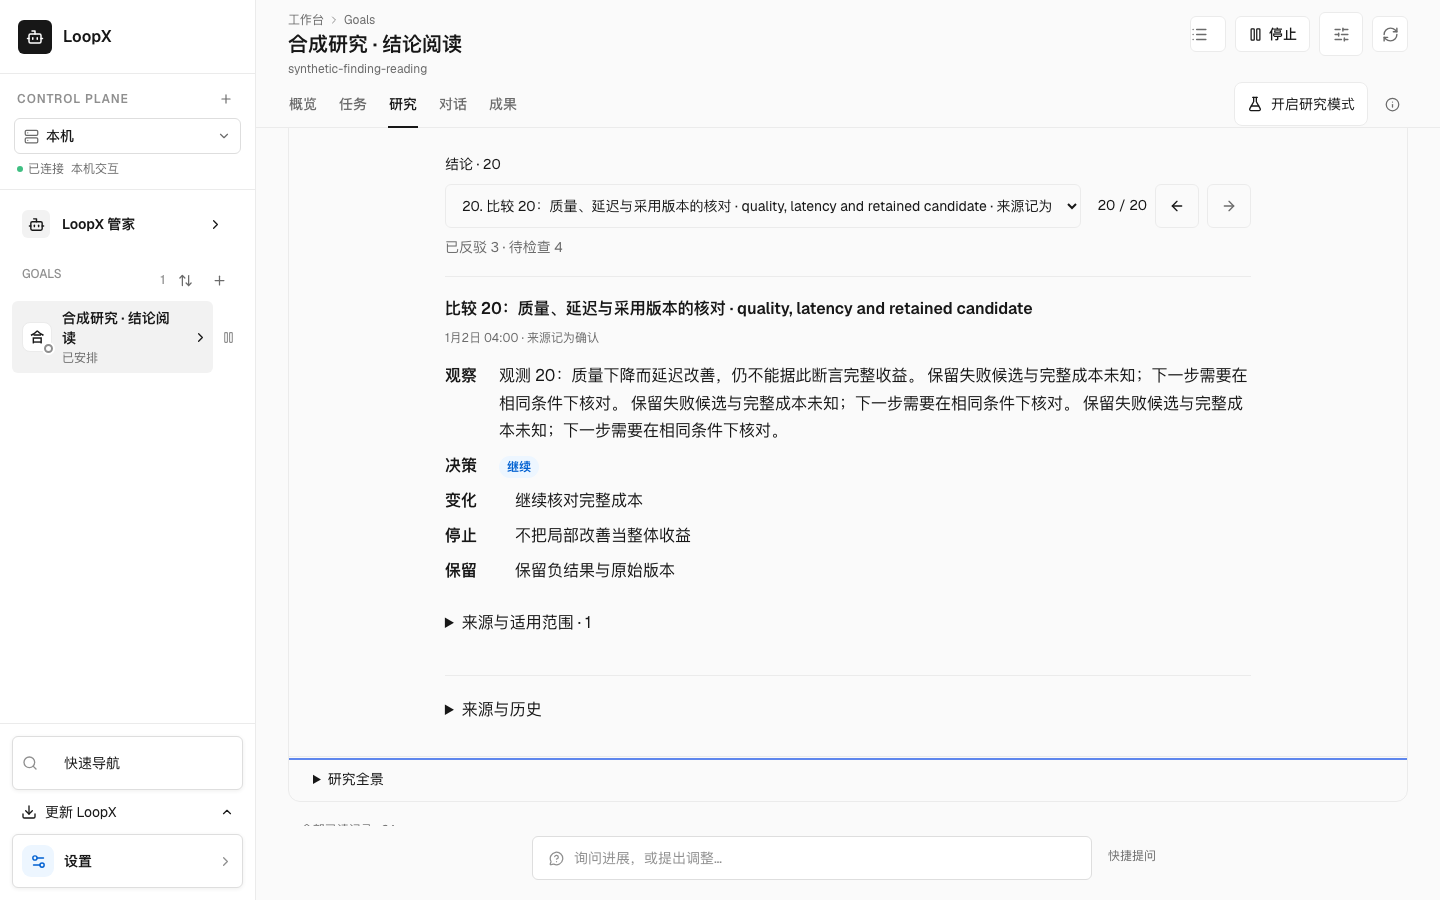
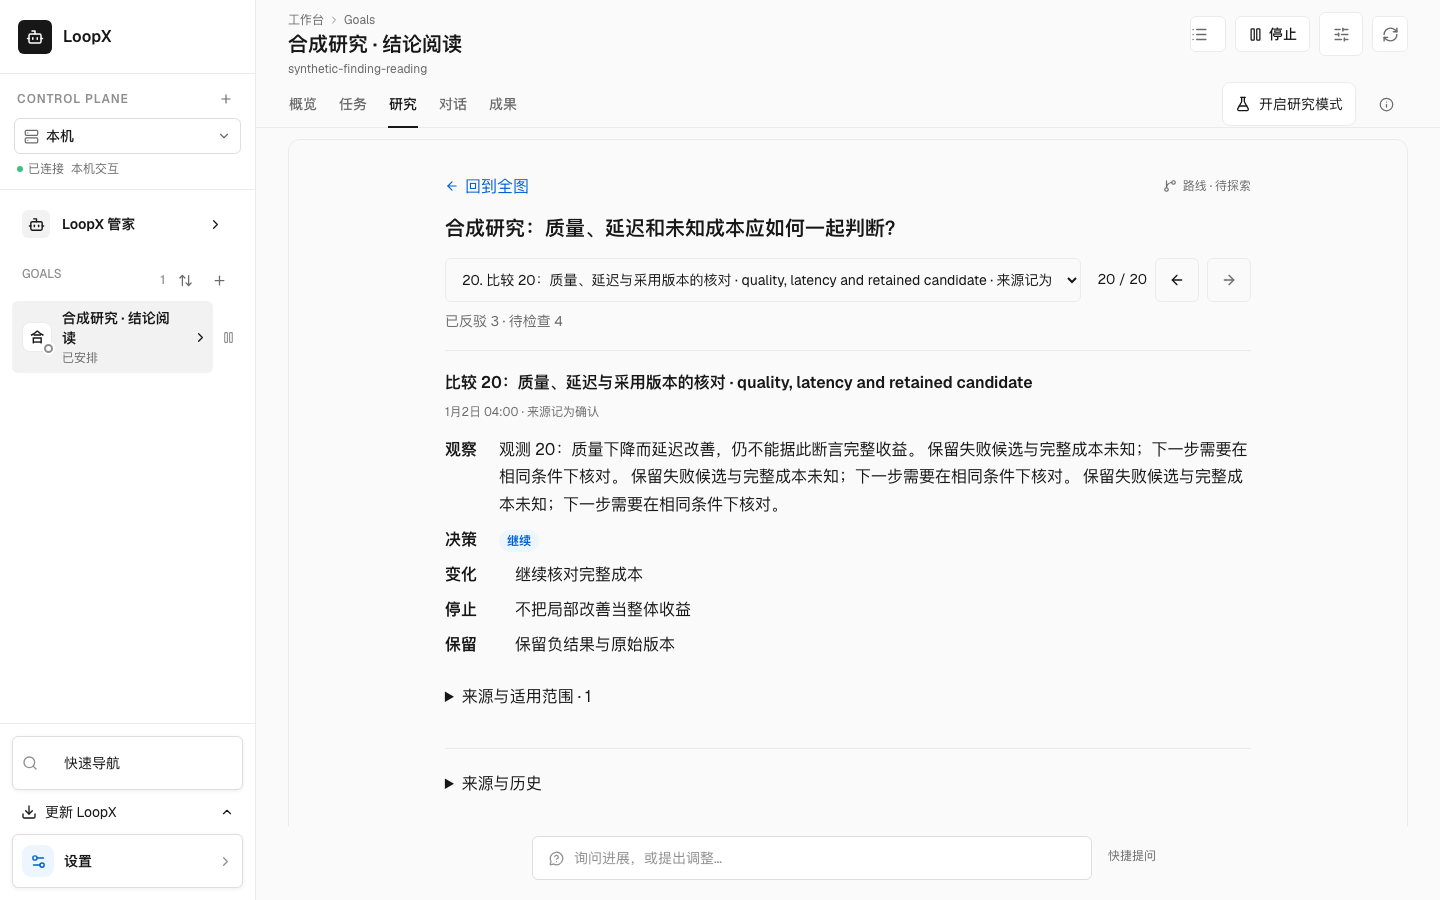
fix(research): retain analysis scope beside focused reading actions

diff --git a/apps/presentation/dashboard/src/features/personal-workspace/goal-research-history.tsx b/apps/presentation/dashboard/src/features/personal-workspace/goal-research-history.tsx
@@ -311,7 +311,9 @@ export function GoalResearchHistory({goalId, active, zh, refreshRevision = 0, re
           : `${read.events.length} / ${read.total} ${copy.records}${read.complete ? "" : ` · ${copy.partial}`}`}</p></div>
       <div className="research-history-controls">
         {!readingSelection ? <div className="research-lens" role="group" aria-label={zh ? "视图" : "View"}>{(["timeline", "graph"] as const).map(item => <button key={item} type="button" aria-pressed={lens === item} onClick={() => chooseLens(item)}>{item === "timeline" ? (zh ? "时间线" : "Timeline") : (zh ? "关系图" : "Graph")}</button>)}</div> : null}
-        <ResearchAnalysisButton analysis={analysis}/>
+        <div className="research-analysis-scoped-action"><ResearchAnalysisButton analysis={analysis}/>
+          {readingSelection && analysis.pack ? <span className="research-analysis-scope">{zh ? "分析范围" : "Analysis scope"} · {analysis.pack.title}</span> : null}
+        </div>
         <button type="button" aria-label={copy.refresh} disabled={busy} onClick={() => setRevision(n => n + 1)}><RefreshCw size={15} aria-hidden/></button>
       </div></header>
     {error || history.error ? <p role="alert" className="research-history-error">{copy.failure} <small>{error || history.error}</small></p> : null}
@@ -325,14 +327,13 @@ export function GoalResearchHistory({goalId, active, zh, refreshRevision = 0, re
 
       {selected ? <div className="research-history-detail" ref={detail} role="region" aria-label={selected.latest.title} tabIndex={-1} onKeyDown={event => {if (event.key === "Escape") {event.stopPropagation(); closeReader();}}}>
         <div className="research-reader-content">
-        <button type="button" className="research-reader-back" onClick={closeReader}><ArrowLeft size={14} aria-hidden/>{readerParent.current ? (zh ? "返回问题列表" : "Back to questions") : copy.all}</button>
-        <p className="research-detail-kind"><GitBranch size={14} aria-hidden/>{kindLabel(selected.latest.node_kind)} · {stateLabel(selected.latest.status)}</p>
+        <div className="research-reader-location"><button type="button" className="research-reader-back" onClick={closeReader}><ArrowLeft size={14} aria-hidden/>{readerParent.current ? (zh ? "返回问题列表" : "Back to questions") : copy.all}</button>
+        <p className="research-detail-kind"><GitBranch size={14} aria-hidden/>{kindLabel(selected.latest.node_kind)} · {stateLabel(selected.latest.status)}</p></div>
         <h3>{selected.latest.title}</h3>
         {selected.latest.blocked_reason ? <p className="research-history-error">{selected.latest.blocked_reason}</p> : null}
         {selected.findings.length ? <>
           {selected.findings.length > 1 ? <nav className="research-finding-navigation" aria-label={zh ? "问题结论" : "Question findings"}>
-            <label><span>{zh ? "结论" : "Findings"} · {selected.findings.length}</span>
-              <select aria-label={zh ? "选择问题结论" : "Choose a question finding"} value={selectedFinding?.result_id ?? ""}
+            <label><select aria-label={zh ? "选择问题结论" : "Choose a question finding"} value={selectedFinding?.result_id ?? ""}
                 onChange={event => select({...selection, finding: event.target.value}, false)}>
                 {!selectedFinding ? <option value="" disabled>{zh ? "所选结论未找到" : "Selected finding not found"}</option> : null}
                 {selected.findings.map((finding, index) => <option key={finding.result_id} value={finding.result_id}>

diff --git a/apps/presentation/dashboard/src/features/personal-workspace/goal-research-history.css b/apps/presentation/dashboard/src/features/personal-workspace/goal-research-history.css
@@ -166,7 +166,7 @@
 .research-history-context { border-top: 1px solid var(--pw-line); min-width: 0; }
 .research-history-context > summary { min-height: 44px; padding: 12px 24px; font-size: var(--text-body); cursor: pointer; }
 .research-history-context > .research-progress { margin: 16px 24px; }
-.research-history .research-finding-navigation { display: flex; align-items: flex-end; gap: 16px; margin-top: 24px; min-width: 0; }
+.research-history .research-finding-navigation { display: flex; align-items: flex-end; gap: 16px; margin-top: 16px; min-width: 0; }
 .research-finding-navigation label { display: grid; flex: 1; min-width: 0; gap: 8px; font-size: var(--text-body); }
 .research-finding-navigation select { width: 100%; min-width: 0; min-height: 44px; padding: 8px 12px; border: 1px solid var(--pw-line); border-radius: 6px; background: var(--pw-bg); color: var(--pw-text); font: inherit; }
 .research-finding-steps { display: flex; flex-shrink: 0; align-items: center; gap: 8px; font-size: var(--text-body); }
@@ -180,3 +180,7 @@
   .research-finding-steps { margin-left: auto; }
   .research-history-context > summary { padding-inline: 16px; }
 }
+.research-analysis-scoped-action { display: grid; gap: 6px; max-width: 28rem; min-width: 0; }
+.research-analysis-scope { font-size: var(--text-body); line-height: var(--leading-body); color: var(--pw-muted); overflow-wrap: anywhere; }
+.research-reader-location { display: flex; align-items: center; justify-content: space-between; flex-wrap: wrap; gap: 4px 16px; }
+.research-history .research-reader-location .research-reader-back, .research-history-detail .research-reader-location p { margin: 0; }

diff --git a/examples/personal-workspace-browser/evidence/research-finding-reader/README.md b/examples/personal-workspace-browser/evidence/research-finding-reader/README.md
@@ -5,7 +5,7 @@ HTTP/SQLite owner; no model, solver or live Goal is involved.
 
 Before: `01f61ee9f3b993bfafc11419ea1842e722906957`.
 After UI digest (ordered TSX, CSS, router, dashboard source paths plus bytes):
[3 lines of base64/hex data omitted]
 
 The same 24 events contain 20 long findings, three refuted and four tentative,
@@ -24,3 +24,9 @@ Run the `research-finding-reader` packaged browser scenario for exact selection,
 reload/Back, complete original, unknown-link recovery, keyboard and effect-free
 readback. The existing research-history, research-measurements and runtime-source
 scenarios retain history, values and source-isolation coverage.
+
+The two analysis-scope captures add a presentation-only synthetic analysis
+catalog over the same real history backend. They verify that the current pack's
+name stays beside the action while history metrics are collapsed, and changes
+with the existing scope selector. They do not qualify analysis authorization or
+model execution; the regression rejects any non-read analysis request.
